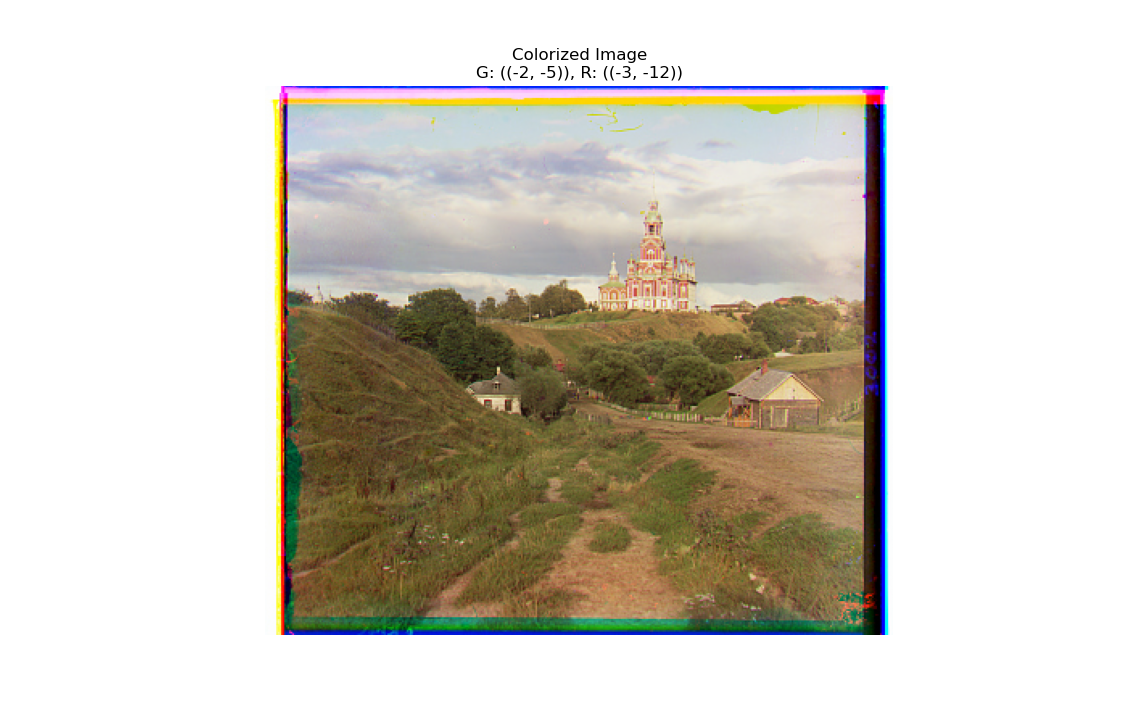
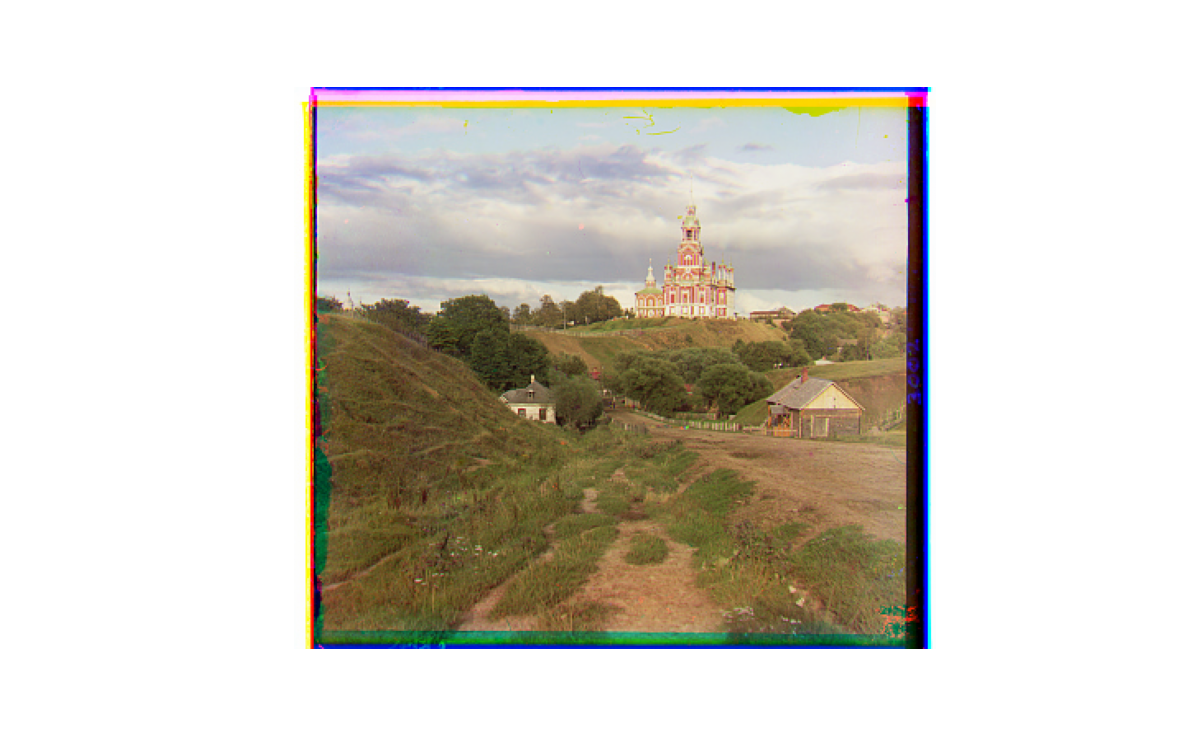
refine website

diff --git a/Proj1/index.html b/Proj1/index.html
@@ -186,7 +186,11 @@
         </div>
         
         <div class="content">
-            
+            <h2>Project Overview</h2>
+            <p>This project utilizes Sobel edge detection, Normalized Cross-Correlation, and image pyramid to colorize the digitized glass plate negatives from Sergei Mikhailovich Prokudin-Gorskii's collection of early 20th century Russian Empire photographs. Each glass plate contains three separate exposures of the same scene taken through red, green, and blue filters. The goal is to extract these three channels and align them to produce a single color RGB image with minimal visual artifacts.</p>
+            <p>Bells and whistles: Use Sobel Edge detection to extract structural features</p>
+        </div>
+
             <!-- Part 1-->
             <div class="section">
                 <h2>Example Results</h2>

diff --git a/index.html b/index.html
@@ -12,6 +12,6 @@
 <body>
     <h1>Welcome to My CS180 Portfolio!</h1>
     <a href="./Proj0/index.html">Project 0</a>
-    <a href="./Proj1/index.html">Project 0</a>
+    <a href="./Proj1/index.html">Project 1</a>
 </body>
 </html>

diff --git a/Proj1/edge.py b/Proj1/edge.py
@@ -32,38 +32,6 @@ def sobel(image):
     
     return magnitude
 
-def measure_true_offset(original_channel, aligned_channel, search_range=50):
-    best_score = -1
-    true_offset = (0, 0)
-
-    h, w = original_channel.shape
-    margin = min(h, w) // 10
-    orig_subset = original_channel[margin:-margin, margin:-margin]
-    
-    for dx in range(-search_range, search_range + 1):
-        for dy in range(-search_range, search_range + 1):
-
-            test_channel = np.roll(aligned_channel, dx, axis=1)
-            test_channel = np.roll(test_channel, dy, axis=0)
-            test_subset = test_channel[margin:-margin, margin:-margin]
-
-            orig_flat = orig_subset.flatten()
-            test_flat = test_subset.flatten()
-            
-            orig_centered = orig_flat - np.mean(orig_flat)
-            test_centered = test_flat - np.mean(test_flat)
-            
-            numerator = np.dot(orig_centered, test_centered)
-            denominator = np.linalg.norm(orig_centered) * np.linalg.norm(test_centered)
-            
-            if denominator > 0:
-                score = numerator / denominator
-                if score > best_score:
-                    best_score = score
-                    true_offset = (dx, dy)
-    
-    return true_offset
-
 def align_with_edge(channel_to_align, reference_channel, search_range=15):
     ref_edges = sobel(reference_channel)
     channel_edges = sobel(channel_to_align)
@@ -158,21 +126,14 @@ def colorize_image(image_path):
     g_dx, g_dy, aligned_g = align_pyramid(g, b)
     r_dx, r_dy, aligned_r = align_pyramid(r, b)
 
-    true_g_offset = measure_true_offset(g, aligned_g)
-    true_r_offset = measure_true_offset(r, aligned_r)
-
     color_image = np.dstack([aligned_r, aligned_g, b])
     plt.figure(figsize=(12, 8))
     plt.imshow(color_image)
-    plt.title(f'Colorized Image\nG: ({true_g_offset}), R: ({true_r_offset})')
     plt.axis('off')
     plt.show()
 
     return color_image, r_dx, r_dy, r_dx, r_dy
 
 if __name__ == "__main__":
-    #small_image = '/Users/junwei/Fall2025/CS180/cs180 proj1 data/tobolsk.jpg'
-    #result_small = colorize_image(small_image)
-
-    large_image = '/Users/junwei/Fall2025/CS180/cs180 proj1 data/siren.tif'
-    result_large = colorize_image(large_image)
+    image = '/Users/junwei/Fall2025/CS180/cs180 proj1 data/three_generations.tif'
+    result = colorize_image(image)
